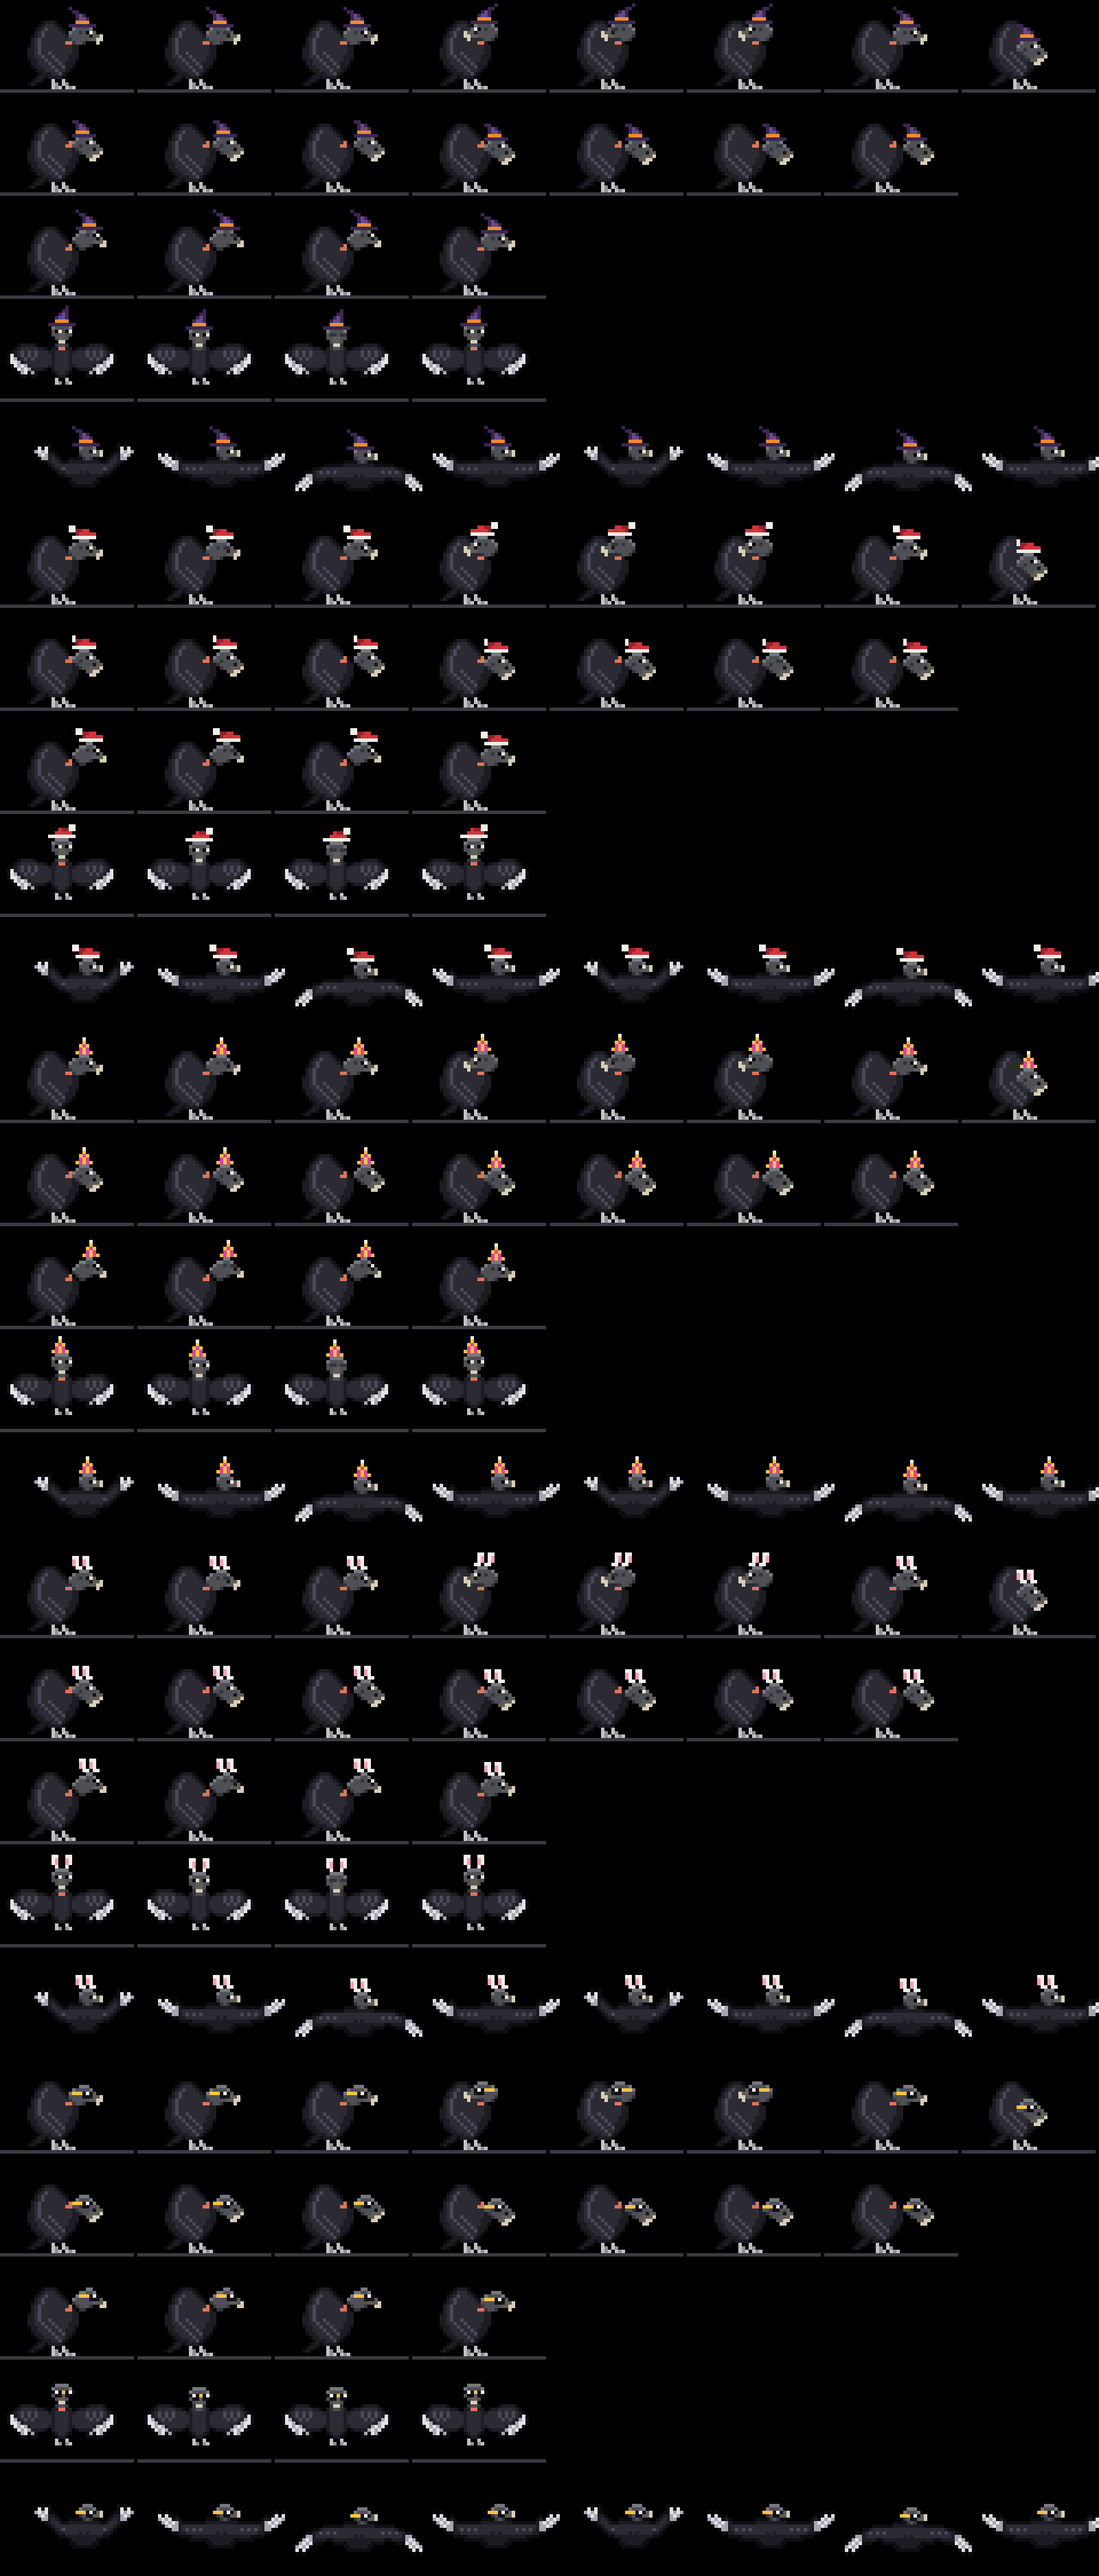
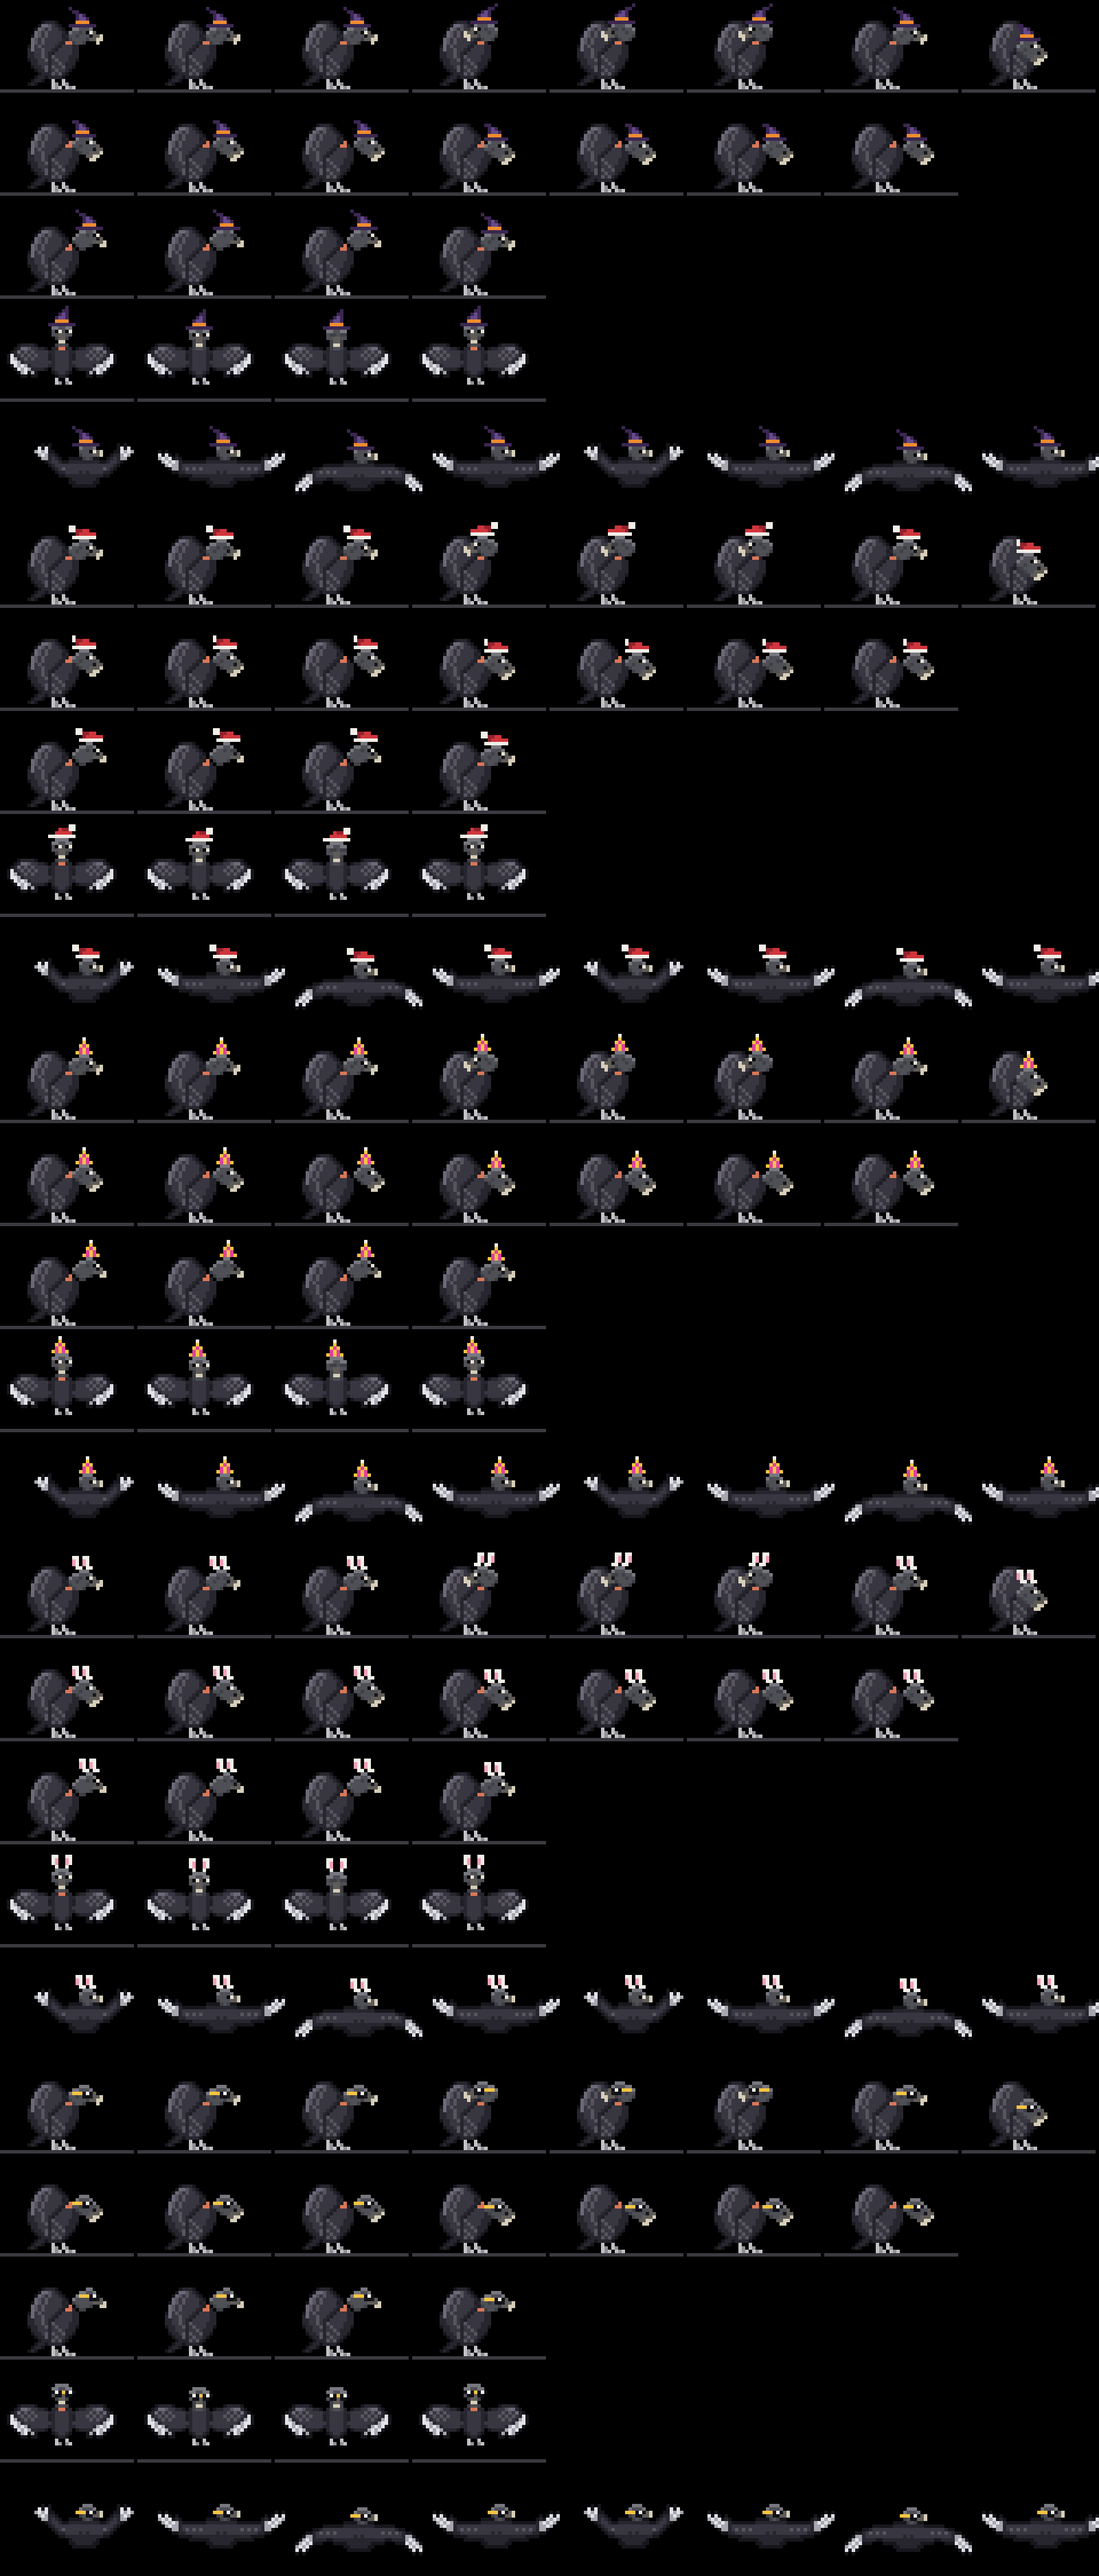
feat(zeca): a lit back, a folded wing and two new tones
A lit edge (i) along the top of the back, the folded wing's trailing edge with a deep shadow (d)
under it, the feather streaks inside the wing panel; a lit crown, a wrinkle on the nape and a
darker cheek on the head. Every grid keeps its silhouette cell for cell, and i and d stay above
row 12, where the griffons recolor their flight feathers.

Zeca's blacks move one step up: he stays a black vulture, he stops being the island's own black.

build() now fails loudly on a letter that is not in PALETTE, which was drawn as a hole.

Claude-Session: https://claude.ai/code/session_01JVojRthUjSPWZJSgVL5LnQ

diff --git a/design/mascots/zeca/zeca.py b/design/mascots/zeca/zeca.py
@@ -12,8 +12,12 @@ import json, pathlib, sys
 ROOT = pathlib.Path(__file__).resolve().parents[3]
 
 PALETTE = {
-    "K": "#0e0d11", "B": "#1d1c22", "b": "#2c2a33", "s": "#4b4858",
-    "H": "#4f4f56", "h": "#77777f", "w": "#34343a",
+    # One step above the island's own black, so he stays a black vulture and not a hole in it.
+    "K": "#17161c", "B": "#27262e", "b": "#383641", "s": "#58555f",
+    "H": "#4f4f56", "h": "#77777f", "w": "#3f3f46",
+    # The lit edge (light from above) and the deep shadow under the folded wing: the species derive
+    # their own from their body color (ui/src/character/flock/index.ts).
+    "i": "#6c6a78", "d": "#1f1e25",
     "E": "#0a0705", "e": "#e8e2d6", "N": "#17171b",
     "P": "#5f5c58", "p": "#d6ceb9", "R": "#2a1416",
     "L": "#c2c2c6", "l": "#8f8f95",
@@ -26,23 +30,25 @@ PALETTE = {
 
 PARTS = {
   # Folded body, perched, facing right. Neck socket at (14, 4) where heads attach.
+  # The lit edge (i) and the wing's shadow (d) stay above row 12: the griffons recolor the rows
+  # below cell by cell into their flight feathers (ui/src/character/flock/rig.ts).
   "body": [
     "......KBBBK.............",
-    ".....KBbbbBK............",
-    "....KBbsbbbBK...........",
-    "....BbsbbbbbBK..........",
-    "...KBbsbbbbbbB..........",
-    "...BbsbbbbbbbbK.........",
-    "...BbsbbbbbbbbBB........",
-    "..KBbsbbbbbbbbbBB.......",
-    "..BBbsbbbbbbbbbBB.......",
-    "..BBbsbbsbbbbbbBB.......",
-    "..BBbbsbbsbbbbBBB.......",
-    "..KBBbbsbbsbbbBBK.......",
-    "...BBbbbsbbsbBBB........",
-    "...KBBbbbsbbsBBK........",
-    "....KBBbbbsbbBK.........",
-    ".....KBBBbbsBK..........",
+    ".....KiisbBK............",
+    "....KisbsbbBK...........",
+    "....isbsbbbbBK..........",
+    "...KisbsbbbbdB..........",
+    "...isbsbbbbbBdK.........",
+    "...isbsbbbbBdbBB........",
+    "..KibsbbbbBdbbbBB.......",
+    "..BibbsbbBdbbbbBB.......",
+    "..BBbbsbBdbbbbbBB.......",
+    "..BBbbsbBsbbbbBBB.......",
+    "..KBBbbsBbsbbbBBK.......",
+    "...BBbbbBbbsbBBB........",
+    "...KBBbsBsbbsBBK........",
+    "....KBBsBbsbbBK.........",
+    ".....KBBBsbsBK..........",
     "....KBBKBBBBK...........",
     "...KBBK.................",
     "..KBK...................",
@@ -50,20 +56,20 @@ PARTS = {
   # Feathers fluffed: cold, asleep, or threatened.
   "body_puff": [
     ".....KBBBBK.............",
-    "....KBbbbbBK............",
-    "...KBbsbbbbBK...........",
-    "...BbsbbbbbbBK..........",
-    "..KBbsbbbbbbbB..........",
-    "..BbsbbbbbbbbbK.........",
-    "..BbsbbbbbbbbbBB........",
-    ".KBbsbbbbbbbbbbBB.......",
-    ".BBbsbbbbbbbbbbBBK......",
-    ".BBbsbbsbbbbbbbBBK......",
-    ".BBbbsbbsbbbbbBBBK......",
-    ".KBBbbsbbsbbbbBBK.......",
-    "..BBbbbsbbsbbBBB........",
-    "..KBBbbbsbbsbBBK........",
-    "...KBBbbbsbbBBK.........",
+    "....KiisbbBK............",
+    "...KisbsbbbBK...........",
+    "...isbsbbbbbBK..........",
+    "..KisbsbbbbbdB..........",
+    "..isbsbbbbbbBdK.........",
+    "..isbsbbbbbbBdBB........",
+    ".KibsbbbbbbBdbbBB.......",
+    ".BibbsbbbbBdbbbBBK......",
+    ".BBbbsbbbBdbbbbBBK......",
+    ".BBbbbsbBdbbbbBBBK......",
+    ".KBBbbbsBsbbbbBBK.......",
+    "..BBbbbbBbsbbBBB........",
+    "..KBBbbsBsbsbBBK........",
+    "...KBBbsBsbbBBK.........",
     "....KBBBbbsBBK..........",
     "....KBBKBBBBK...........",
     "...KBBK.................",
@@ -103,10 +109,10 @@ PARTS = {
   # Heads: 10x7 boxes; the neck joins the body at the box's bottom-left.
   "head": [
     "...hhh....",
-    ".hHHHHh...",
+    ".hhHHHh...",
     "hHHwHEeP..",
-    "HHHHHHNPPp",
-    "wHHHHHPPpp",
+    "HHwHHHNPPp",
+    "wHHHHwPPpp",
     ".wHHw...p.",
   ],
   "head_down": [
@@ -149,20 +155,20 @@ PARTS = {
   ],
   "head_front": [
     "..hhhh..",
-    ".hHHHHh.",
+    ".hhHHhh.",
     ".HEeHEe.",
     ".HHPPHH.",
-    "..HPPH..",
+    "..wPPw..",
     "...pp...",
     "..wHHw..",
   ],
   # Front-facing body for sunning (wings spread), 32 wide; head socket at (12, 0).
   "sunning": [
     "...KBBBBK.....wHHw.....KBBBBK...",
-    "..KBbbbbbBBK.BBBBBB.KBBbbbbbBK..",
-    ".KBbsbsbsbbbBBbbbbBBbbbsbsbsbBK.",
-    "KWBbsbsbsbbbbBbbbbBbbbbsbsbsbBWK",
-    "KWvBbsbsbbbbbBbbbbBbbbbbsbsbBvWK",
+    "..KBiisbbBBK.BBBBBB.KBBbbsiiBK..",
+    ".KBibsbsbbbbBBbbbbBBbbbbsbsbiBK.",
+    "KWBbsbsbsbbbdBbbbbBdbbbsbsbsbBWK",
+    "KWvBbsbsbbbbdBbbbbBdbbbbsbsbBvWK",
     "KWWvBbbbbbbbbBbbbbBbbbbbbbbBvWWK",
     ".KWvWvBbbbbbBBbbbbBBbbbbbBvWvWK.",
     "..KWvWvBBBBK.BbbbbB.KBBBBvWvWK..",
@@ -626,6 +632,10 @@ def dress(parts, look):
     return out, lift
 
 def build(out_json):
+    # A letter outside the palette is drawn as a hole, silently: fail here instead.
+    for name, grid in [*PARTS.items(), *((f"{n}:{p}", g) for n, l in looks().items() for p, g in l["parts"].items())]:
+        for c in {c for row in grid for c in row} - {"."} - set(PALETTE):
+            raise SystemExit(f"part {name!r} uses {c!r}, which is not in PALETTE")
     json.dump({"palette": PALETTE, "parts": PARTS, "clips": CLIPS, "emotes": EMOTES, "looks": looks()},
               open(out_json, "w"), separators=(",", ":"))
 
